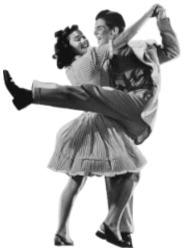
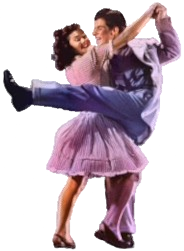
css magic

diff --git a/src/main/resources/common.css b/src/main/resources/common.css
@@ -1,0 +1,112 @@
+body {
+    font-family: Verdana;
+    background-color: var(--color-bright);
+}
+body, div, p, h1, h2, h3, h4, h5, h6, .pseudoH3 {
+    margin: 0;
+    padding: 0;
+}
+
+/* HEADERS */
+/* ============================================================================ */
+h1, h2, h3, .pseudoH3 {
+    color: var(--color-main);
+    font-weight: bold;
+}
+h1 {
+    font-size: 2.0em;
+    margin-top: 25pt;
+    margin-bottom: 5pt;
+}
+h2 {
+    font-size: 1.7em;
+    margin-top: 22pt;
+    margin-bottom: 5pt;
+    padding-left: 2pt;
+    color: white;
+    background-color: var(--color-main);
+}
+h3, .pseudoH3 {
+    font-size: 1.3em;
+    margin-top: 18pt;
+    margin-bottom: 6pt;
+    border-bottom: 3px solid;
+}
+
+/* BASICS */
+/* ============================================================================ */
+p {
+    margin-top: 8px;
+    margin-bottom: 4px;
+}
+a {
+    color: var(--color-main);
+}
+a:hover {
+    color: var(--color-normal);
+}
+ol, ul {
+    margin-top: 2px;
+    margin-bottom: 8px;
+}
+img {
+    margin-top: 4px;
+    margin-bottom: 4px;
+}
+
+/* TITLE */
+/* ============================================================================ */
+#titleContainer {
+    background-color: var(--color-main);
+    color: white;
+    border-top: 15px solid black;
+    border-bottom: 15px solid black;
+}
+#title {
+    /* top right bottom left */
+    padding: 10px 20px 10px 20px;
+    font-size: 3em;
+    text-align: center;
+}
+#tocTitle {
+    font-weight: bold;
+    margin-top: 10px;
+}
+
+/* CONTAINERS */
+/* ============================================================================ */
+#middleWrapper {
+    width: 100%;
+    display: flex;
+    justify-content: center;
+    margin-bottom: 15px;
+}
+#middleCentered {
+    max-width: 800px;
+    padding-top: 15px;
+}
+.center {
+    display: flex;
+    justify-content: center;
+}
+
+/* YOUTUBE VIDEO */
+/* ============================================================================ */
+iframe {
+    width: 600px;
+    height: 339px;
+    margin-top: 10px;
+    margin-bottom: 0;
+}
+.videoContainer {
+    width: 100%;
+    margin-left: auto;
+    margin-right: auto;
+    text-align: center;
+}
+.caption {
+    margin-top: 2px;
+    margin-bottom: 10px;
+    font-style: italic;
+    font-size: 0.9em;
+}

diff --git a/src/main/resources/index.html b/src/main/resources/index.html
@@ -17,36 +17,48 @@
             cursor: pointer;
             width: 200px;
             float: left;
+            padding: 30px;
+            margin-bottom: 50px;
             text-align: center;
             border-radius: 15px;
             -moz-border-radius: 15px;
+            background-color: #FDF2D3;
+        }
+        .tile > img {
+            filter: grayscale(100%);
         }
         .tile:hover {
             background-color: #F7D9C4;
+        }
+        .tile:hover > img {
+            filter: grayscale(0%);
+        }
+        .tile:hover > .title {
+            color: #000000;
         }
         .tile:first-child {
             margin-right: 40px;
         }
         .title {
-            padding: 0;
-            margin: 0;
-            margin-top: 10px;
-            margin-bottom: 10px;
+            font-family: Arial;
+            color: #1C1C1C;
             font-size: 18pt;
             font-weight: bold;
-            font-family: Arial;
+            padding: 0;
+            margin: 0;
+            padding-bottom: 20px;
         }
     </style>
 </head>
 <body>
 <div id="root">
-    <div class="tile" onclick="javascript:window.location.href='lindy.html'">
-        <p class="title">Lindy</p>
-        <img src="lindy.png" width="184" height="251"/>
+    <div class="tile" onclick="javascript:window.location.href='lindy'">
+        <p class="title">Lindy Hop</p>
+        <img src="lindy.png" width="184" height="251" class="tileImg" alt="Lindy Hop" />
     </div>
-    <div class="tile" onclick="javascript:window.location.href='zouk.html'">
+    <div class="tile" onclick="javascript:window.location.href='zouk'">
         <p class="title">Zouk</p>
-        <img src="zouk.png" width="184" height="251" />
+        <img src="zouk.png" width="184" height="251" class="tileImg" alt="Brazilian Zouk" />
     </div>
 </div>
 </body>

diff --git a/src/main/kotlin/Main.kt b/src/main/kotlin/Main.kt
@@ -1,25 +1,37 @@
 import kotlinx.browser.document
 import kotlinx.browser.window
+import kotlinx.html.*
+import kotlinx.html.dom.*
 import lindy.LindyWiki
-import org.w3c.dom.Element
+import org.w3c.dom.HTMLElement
 import zouk.ZoukWiki
 
-interface Wiki {
-    fun renderIn(root: Element)
-}
-
-private fun parseWikiType() = when (val raw = js("wikiType")) {
-    "lindy" -> LindyWiki
-    "zouk" -> ZoukWiki
-    else -> error("Invalid wiki type [$raw]!")
+abstract class Wiki {
+    protected abstract val titleText: String
+    fun renderIn(root: HTMLElement) {
+        root.append.wikiTitle(titleText)
+        root.append.div {
+            id = "middleWrapper"
+            div {
+                id = "middleCentered"
+                renderContentIn(this)
+            }
+        }
+    }
+    protected abstract fun renderContentIn(root: HtmlBlockTag)
 }
 
 fun main() {
     val wiki = parseWikiType()
-    println("Starting app [${wiki::class.simpleName}]...")
+    println("Starting ${wiki::class.simpleName} ...")
     window.onload = { e ->
-        val root = document.getElementById("root") ?: error("Main container 'root' not found!")
+        val root = document.getElementById("root") as? HTMLElement ?: error("Main container 'root' not found!")
         wiki.renderIn(root)
         e
     }
+}
+private fun parseWikiType() = when (val raw = js("wikiType")) {
+    "lindy" -> LindyWiki
+    "zouk" -> ZoukWiki
+    else -> error("Invalid wiki type [$raw]!")
 }

diff --git a/src/main/kotlin/lindy/LindyMain.kt b/src/main/kotlin/lindy/LindyMain.kt
@@ -1,13 +1,33 @@
 package lindy
 
 import Wiki
-import kotlinx.browser.document
-import org.w3c.dom.Element
+import kotlinx.html.*
+import kotlinx.html.dom.*
+import kotlinx.html.js.onClickFunction
+import org.w3c.dom.HTMLElement
+import youtube
 
-object LindyWiki : Wiki {
-    override fun renderIn(root: Element) {
-        val p = document.createElement("p")
-        p.innerHTML = "Lindy wiki"
-        root.append(p)
+object LindyWiki : Wiki() {
+    override val titleText = "Lindy Hop Cheatsheet"
+    override fun renderContentIn(root: HtmlBlockTag) {
+        root.div {
+            p { +"Lindy Hop Cheatsheet" }
+            section1("my section title") {
+                p { +"sub text" }
+                youtube(id = "7e2SjRIfD4U?si=R4WWwPD0DGrYyjdX", caption = "some caption")
+            }
+        }
+    }
+}
+@HtmlTagMarker
+fun FlowContent.section1(title: String, action: FlowContent.() -> Unit) {
+    div {
+        h1(classes = "a b") {
+            +title
+            onClickFunction = { _ ->
+                println("clicked title")
+            }
+        }
+        action()
     }
 }

diff --git a/src/main/kotlin/common.kt b/src/main/kotlin/common.kt
@@ -1,0 +1,30 @@
+import kotlinx.html.FlowContent
+import kotlinx.html.HtmlTagMarker
+import kotlinx.html.TagConsumer
+import kotlinx.html.div
+import kotlinx.html.id
+import kotlinx.html.iframe
+import kotlinx.html.p
+
+fun <R> TagConsumer<R>.wikiTitle(text: String) {
+    div {
+        id = "titleContainer"
+        p {
+            id = "title"
+            +text
+        }
+    }
+}
+
+@HtmlTagMarker
+fun FlowContent.youtube(id: String, caption: String) {
+    div(classes = "videoContainer") {
+        iframe {
+            src = "https://www.youtube.com/embed/$id"
+            attributes["allow"] = "accelerometer; autoplay; clipboard-write; encrypted-media; gyroscope; picture-in-picture; web-share"
+            attributes["referrerpolicy"] = "strict-origin-when-cross-origin"
+            attributes["allowfullscreen"] = ""
+        }
+        p(classes = "caption") { +caption }
+    }
+}

diff --git a/src/main/kotlin/zouk/ZoukMain.kt b/src/main/kotlin/zouk/ZoukMain.kt
@@ -1,13 +1,13 @@
 package zouk
 
 import Wiki
-import kotlinx.browser.document
-import org.w3c.dom.Element
+import kotlinx.html.*
 
-object ZoukWiki : Wiki {
-    override fun renderIn(root: Element) {
-        val p = document.createElement("p")
-        p.innerHTML = "Zouk wiki"
-        root.append(p)
+object ZoukWiki : Wiki() {
+    override val titleText = "Zouk Cheatsheet"
+    override fun renderContentIn(root: HtmlBlockTag) {
+        root.div {
+            p { +"Zouk" }
+        }
     }
 }

diff --git a/src/main/resources/lindy/index.html b/src/main/resources/lindy/index.html
@@ -1,0 +1,17 @@
+<!DOCTYPE html>
+<html lang="en">
+<head>
+    <meta charset="UTF-8">
+    <title>Lindy Wiki</title>
+    <link rel="icon" href="favicon.jpg">
+    <link rel="stylesheet" type="text/css" href="lindy.css" />
+    <link rel="stylesheet" type="text/css" href="../common.css" />
+    <script>
+        var wikiType = "lindy";
+    </script>
+</head>
+<body>
+<script src="../wiki.js"></script>
+<div id="root"></div>
+</body>
+</html>

diff --git a/src/main/resources/zouk/index.html b/src/main/resources/zouk/index.html
@@ -1,0 +1,17 @@
+<!DOCTYPE html>
+<html lang="en">
+<head>
+    <meta charset="UTF-8">
+    <title>Zouk Wiki</title>
+    <link rel="icon" href="favicon.jpg">
+    <link rel="stylesheet" type="text/css" href="zouk.css" />
+    <link rel="stylesheet" type="text/css" href="../common.css" />
+    <script>
+        var wikiType = "zouk";
+    </script>
+</head>
+<body>
+<script src="../wiki.js"></script>
+<div id="root"></div>
+</body>
+</html>

diff --git a/src/main/resources/lindy/lindy.css b/src/main/resources/lindy/lindy.css
@@ -1,0 +1,7 @@
+:root {
+    --color-bright: rgba(232,226,215,1);
+    --color-normal: rgba(226,185,148,1);
+    --color-main: rgba(136,92,54,1);
+    --color-dark: rgba(113,80,46,1);
+    --color-complement: rgba(177,197,195,1);
+}

diff --git a/src/main/resources/zouk/zouk.css b/src/main/resources/zouk/zouk.css
@@ -1,0 +1,7 @@
+:root {
+    --color-bright: rgba(254,253,254,1);
+    --color-normal: rgba(204,67,49,1);
+    --color-main: rgba(234,52,36,1);
+    --color-dark: rgba(100,21,14,1);
+    --color-complement: rgba(176,36,24,1);
+}

diff --git a/README.md b/README.md
@@ -6,7 +6,6 @@ See: https://christophpickl.github.io/wiki/
 
 # TODOs
 
-* landing page, with links to wikis
 * styling with (programmatic) CSS
 * reusable video container (HTML builder)
 * migrate content
